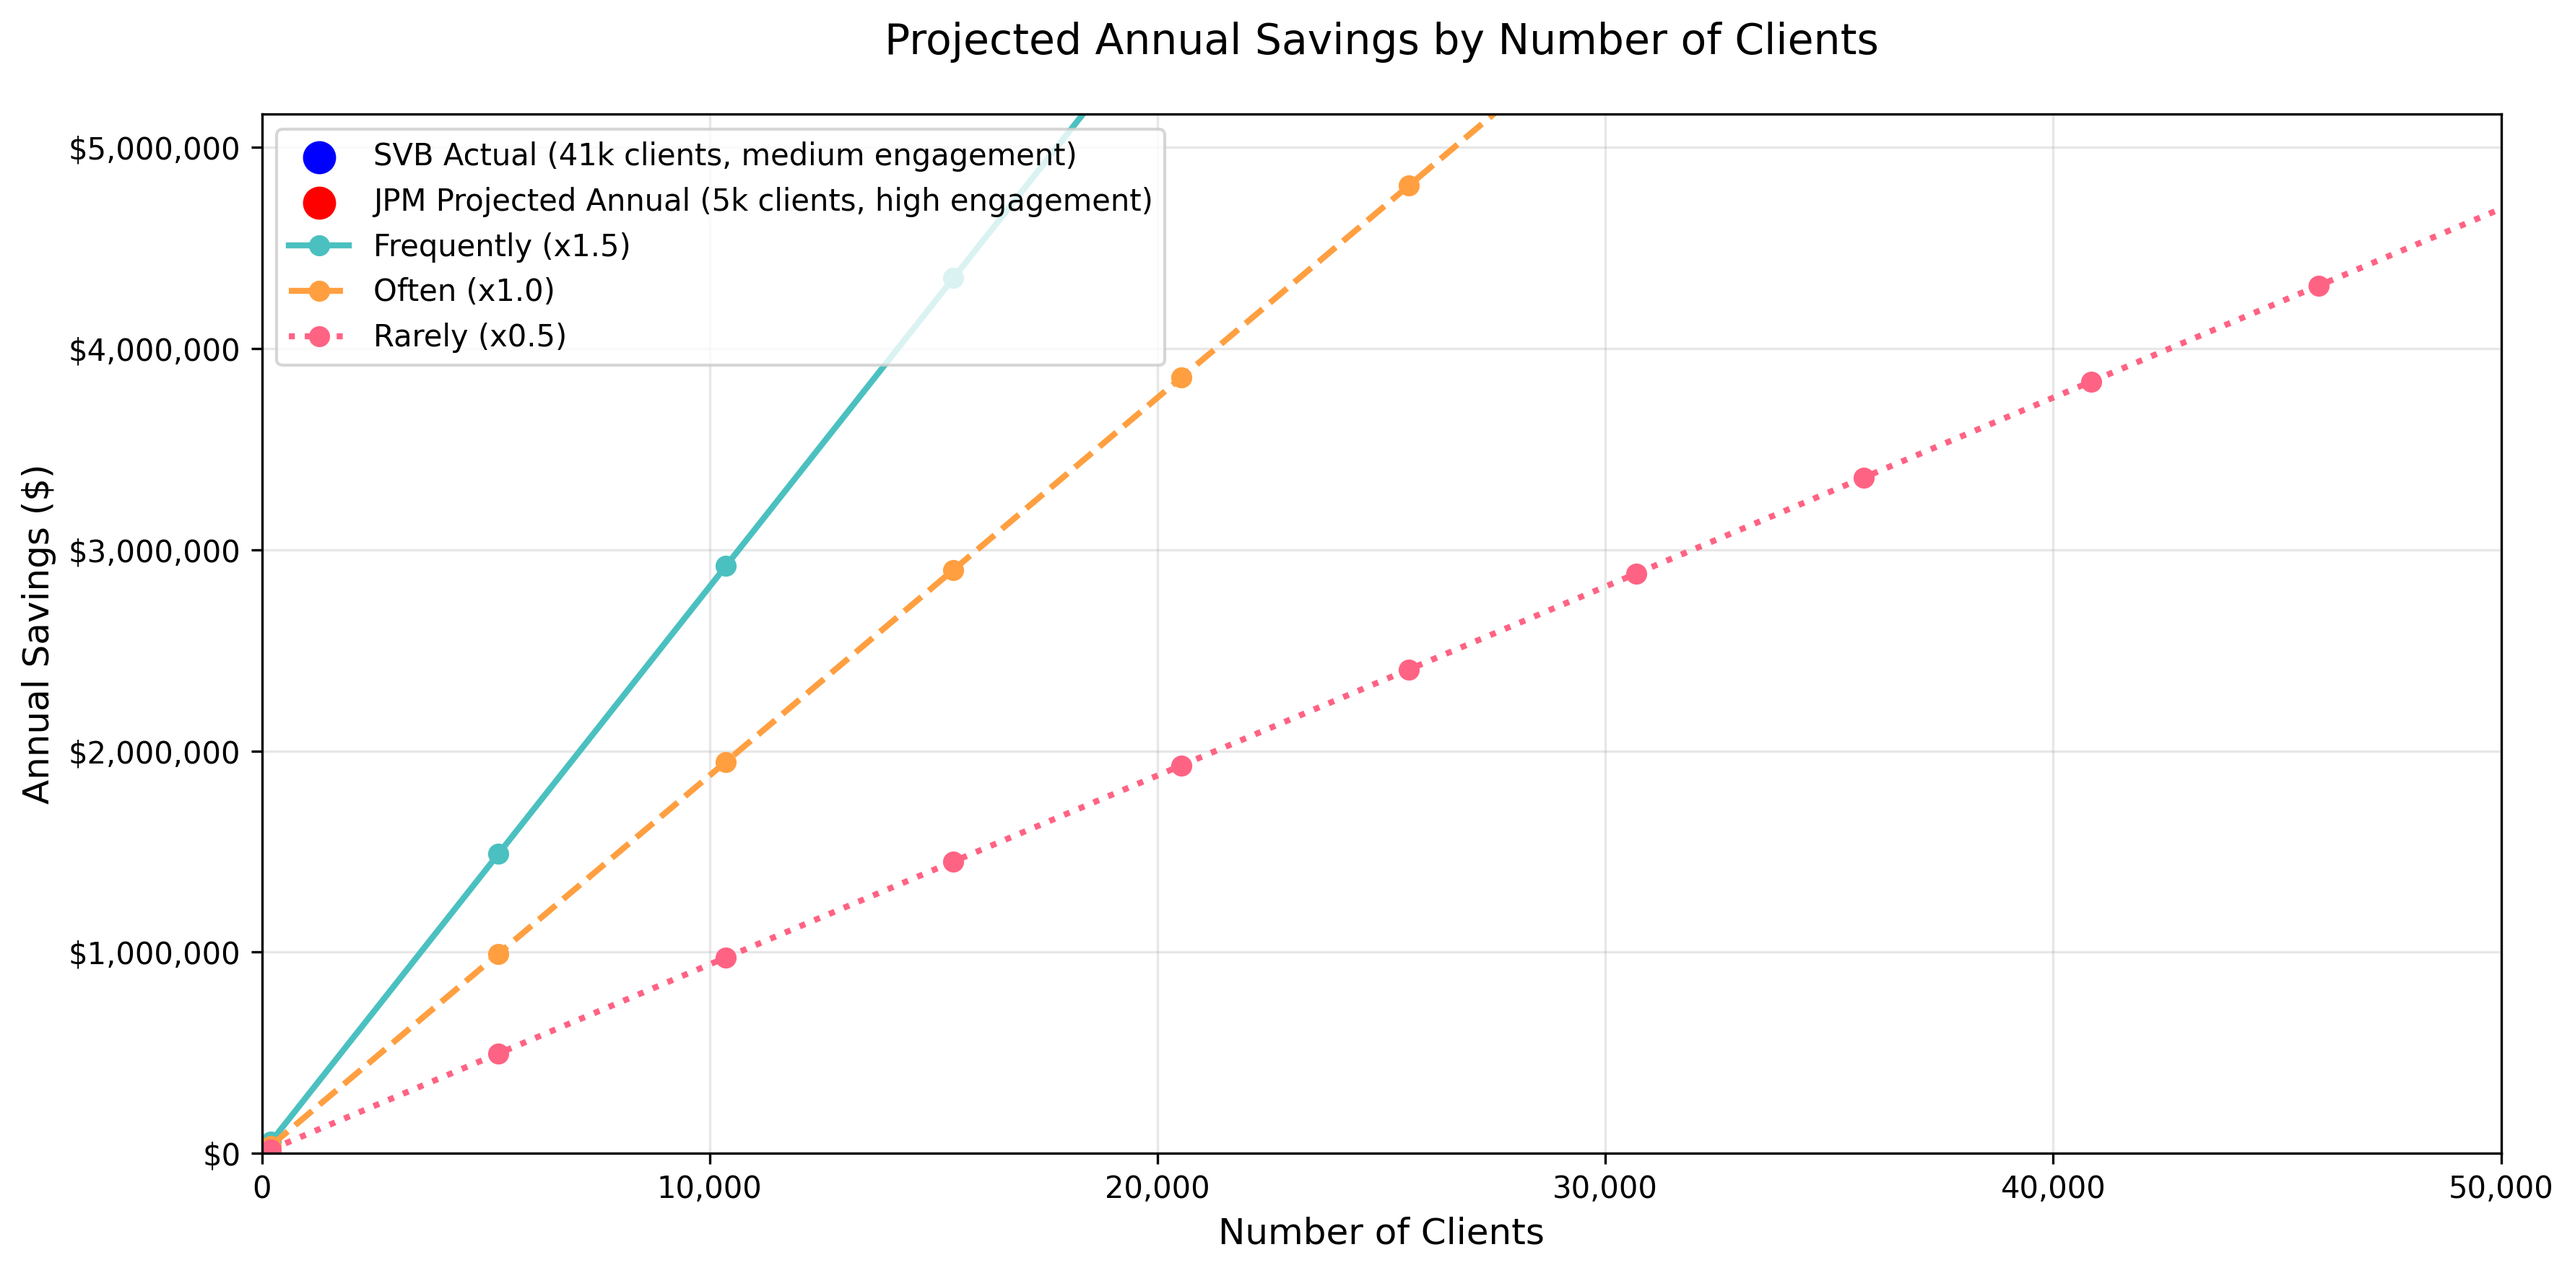
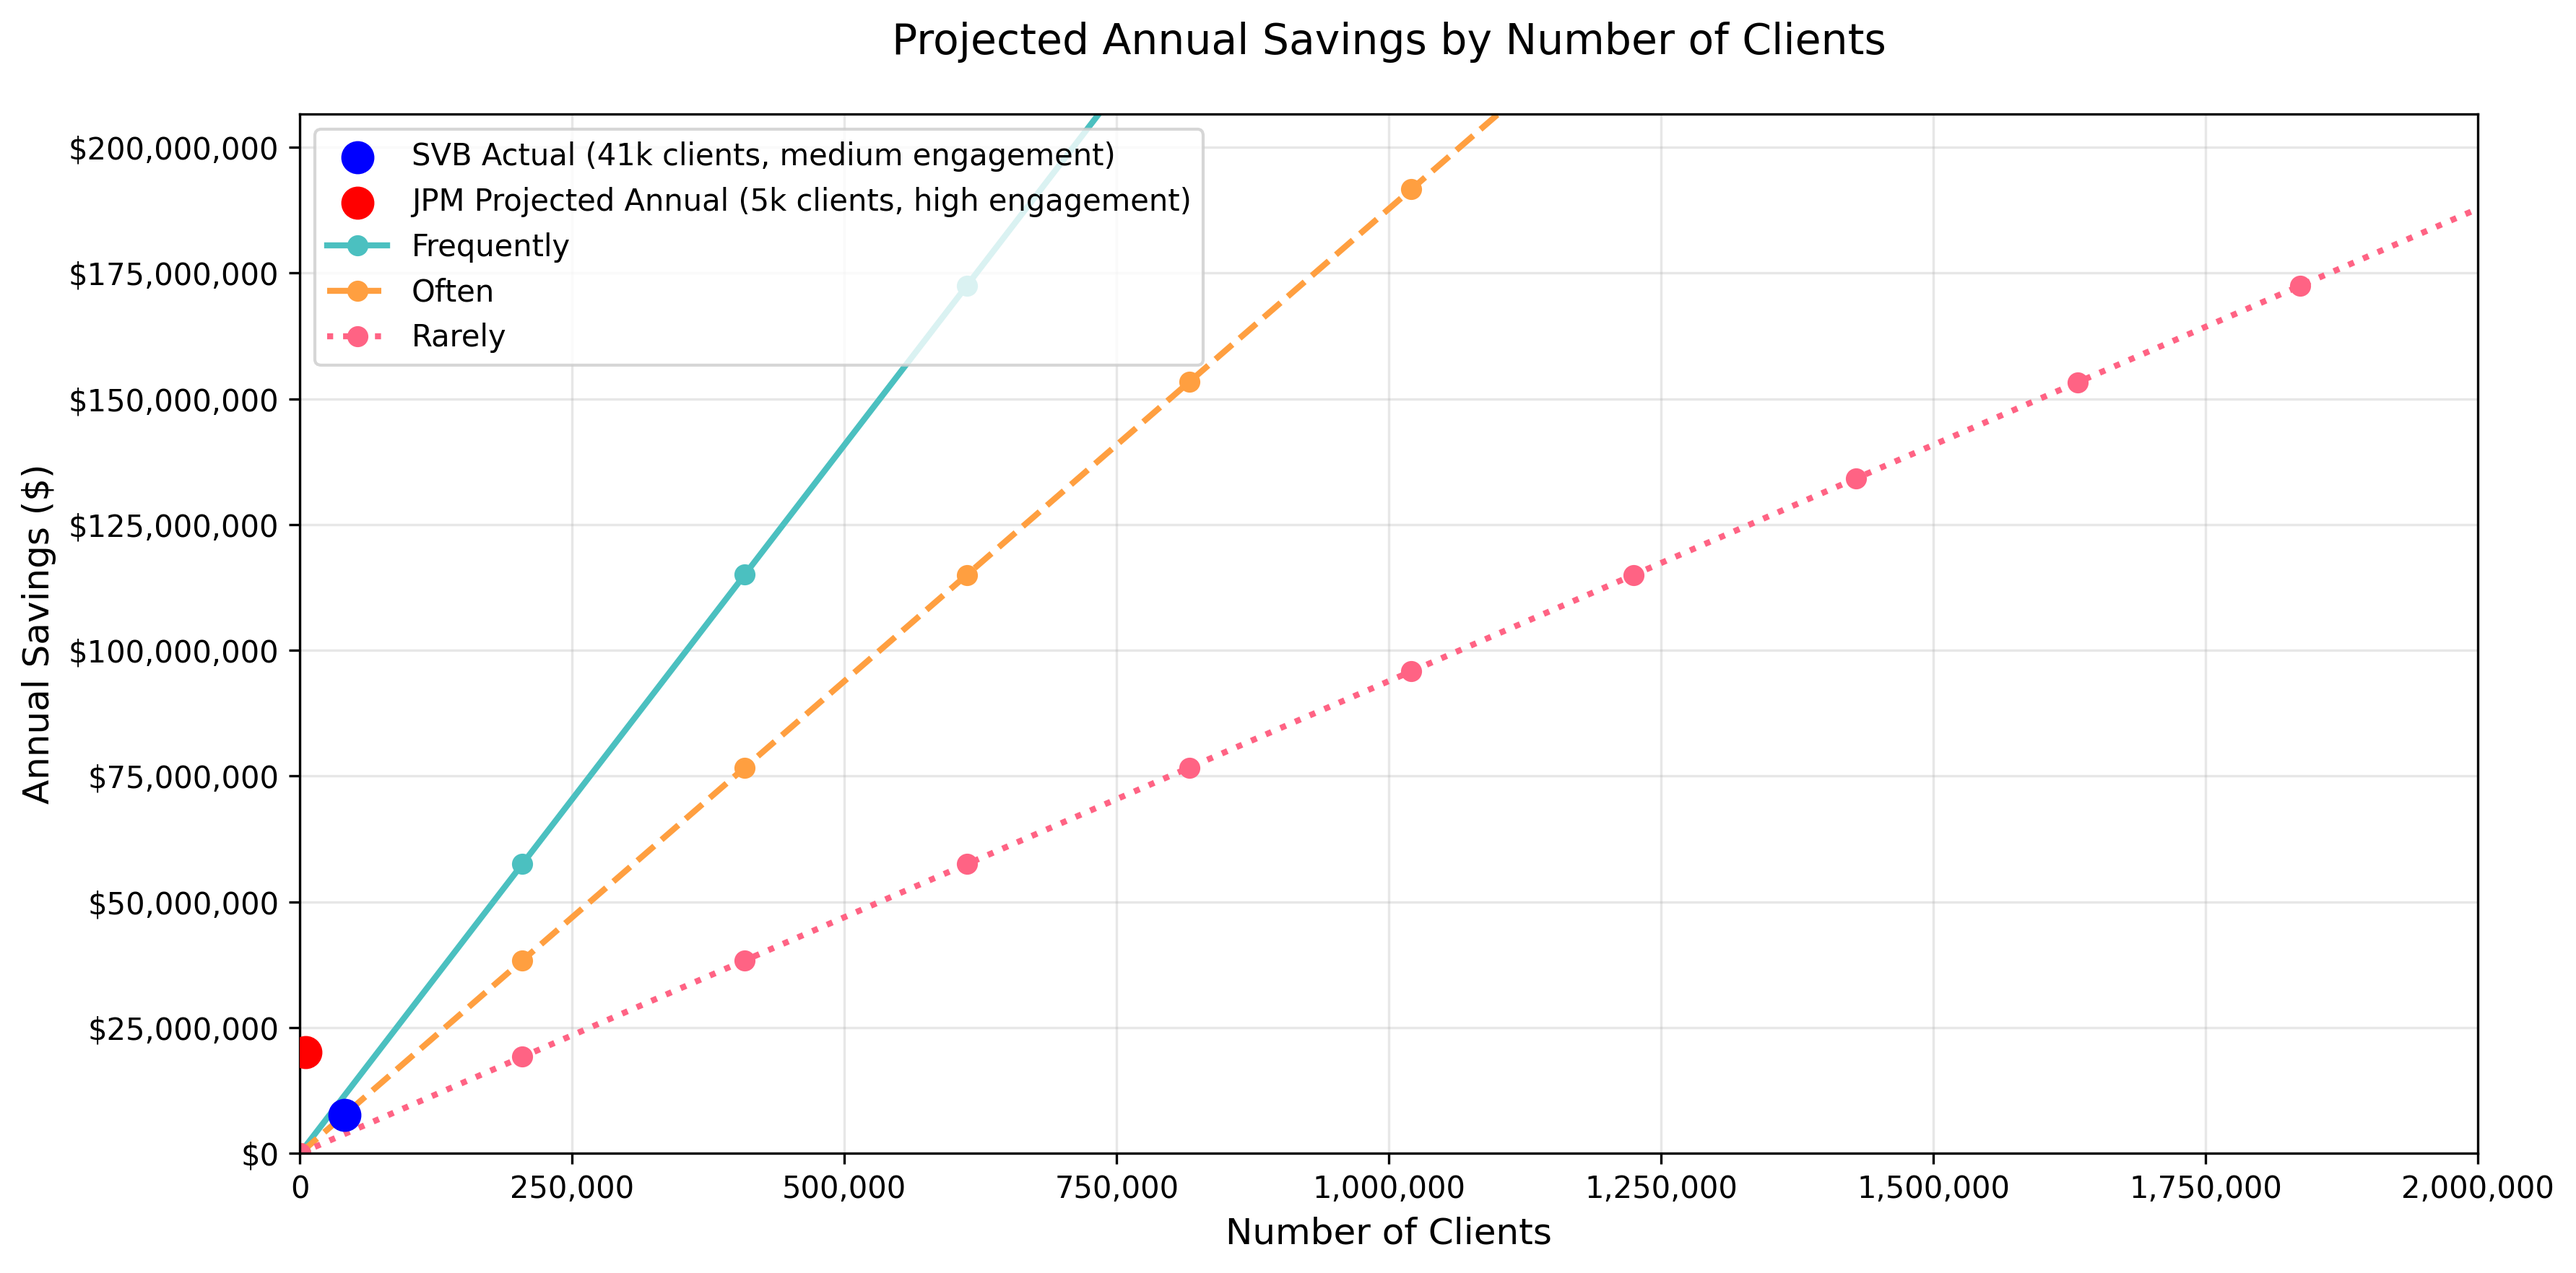
Update plots: Combine savings for multiple company types, extend x-axis to 2M clients, simplify legend labels

diff --git a/banks/app_streamlit.py b/banks/app_streamlit.py
@@ -180,28 +180,43 @@ if predict_button:
         colors = {'Frequently': '#4BC0C0', 'Often': '#FF9F40', 'Rarely': '#FF6384'}
         multipliers = {'Frequently': 1.5, 'Often': 1.0, 'Rarely': 0.5}
         
-        # Plot for each company type and engagement level
-        if "startup" in company_types:
+        # Plot savings based on company types
+        if len(company_types) == 2:  # Both types selected
+            # Plot combined savings for each engagement level
             for level, mult in multipliers.items():
-                savings = client_points * 188 * mult
-                plt.plot(client_points, savings, 
-                         label=f'Startups - {level} (x{mult})',
+                startup_savings = client_points * 188 * mult
+                sme_savings = client_points * 188 * 0.7 * mult  # 30% lower for SMEs
+                total_savings = startup_savings + sme_savings
+                plt.plot(client_points, total_savings, 
+                         label=f'Combined - {level}',
                          color=colors[level],
                          linestyle='-' if level == engagement_level.capitalize() else '--',
                          linewidth=3 if level == engagement_level.capitalize() else 1)
                 if level == engagement_level.capitalize():
-                    plt.scatter(client_points, savings, color=colors[level], s=100)
-        
-        if "sme" in company_types:
-            for level, mult in multipliers.items():
-                savings = client_points * 188 * 0.7 * mult  # 30% lower for SMEs
-                plt.plot(client_points, savings, 
-                         label=f'SMEs - {level} (x{mult})',
-                         color=colors[level],
-                         linestyle=':' if level == engagement_level.capitalize() else '-.',
-                         linewidth=3 if level == engagement_level.capitalize() else 1)
-                if level == engagement_level.capitalize():
-                    plt.scatter(client_points, savings, color=colors[level], s=100)
+                    plt.scatter(client_points, total_savings, color=colors[level], s=100)
+        else:
+            # Plot individual company type
+            if "startup" in company_types:
+                for level, mult in multipliers.items():
+                    savings = client_points * 188 * mult
+                    plt.plot(client_points, savings, 
+                             label=f'Startups - {level}',
+                             color=colors[level],
+                             linestyle='-' if level == engagement_level.capitalize() else '--',
+                             linewidth=3 if level == engagement_level.capitalize() else 1)
+                    if level == engagement_level.capitalize():
+                        plt.scatter(client_points, savings, color=colors[level], s=100)
+            
+            if "sme" in company_types:
+                for level, mult in multipliers.items():
+                    savings = client_points * 188 * 0.7 * mult  # 30% lower for SMEs
+                    plt.plot(client_points, savings, 
+                             label=f'SMEs - {level}',
+                             color=colors[level],
+                             linestyle=':' if level == engagement_level.capitalize() else '-.',
+                             linewidth=3 if level == engagement_level.capitalize() else 1)
+                    if level == engagement_level.capitalize():
+                        plt.scatter(client_points, savings, color=colors[level], s=100)
         
         plt.title('Projected Annual Savings Growth\n(Current vs Double Clients)', fontsize=14, pad=20)
         plt.xlim(num_clients * 0.9, num_clients * 2.1)  # Set x-axis with some padding

diff --git a/banks/data_analysis/model_visualization.py b/banks/data_analysis/model_visualization.py
@@ -66,7 +66,7 @@ class SavingsModelVisualizer:
         jpm_projected_annual = jpm_monthly_savings * 12  # Simple annual projection
         
         # Create evenly spaced points for linear visualization
-        num_companies = np.linspace(200, 50000, 50)  # Extend range to 50k clients
+        num_companies = np.linspace(200, 2000000, 50)  # Extend range to 2M clients
         
         # Define engagement multipliers relative to SVB's medium engagement
         engagement_multipliers = {
@@ -101,7 +101,7 @@ class SavingsModelVisualizer:
             
             # Add to static plot with distinct line styles and markers
             plt.plot(num_companies, savings, 
-                     label=f'{level} (x{multiplier})',
+                     label=f'{level}',
                      color=colors[level],
                      linestyle=linestyles[level],
                      linewidth=2,
@@ -120,12 +120,12 @@ class SavingsModelVisualizer:
         ax.yaxis.set_major_formatter(plt.FuncFormatter(lambda x, p: f'${int(x):,}'))
         
         # Ensure plot shows linear relationship clearly
-        plt.xlim(0, max(num_companies))
+        plt.xlim(0, 2000000)  # Set x-axis to 2M clients
         plt.ylim(0, max(savings) * 1.1)
         
         # Save static plot
         plt.tight_layout()
-        plt.savefig(self.static_dir / 'savings_vs_clients.png', bbox_inches='tight', dpi=300)
+        plt.savefig(self.static_dir / 'savings_vs_clients.png', bbox_inches='tight', dpi=300, format='png', facecolor='white')
         plt.close()
         
         # Save predictions for JavaScript visualization
